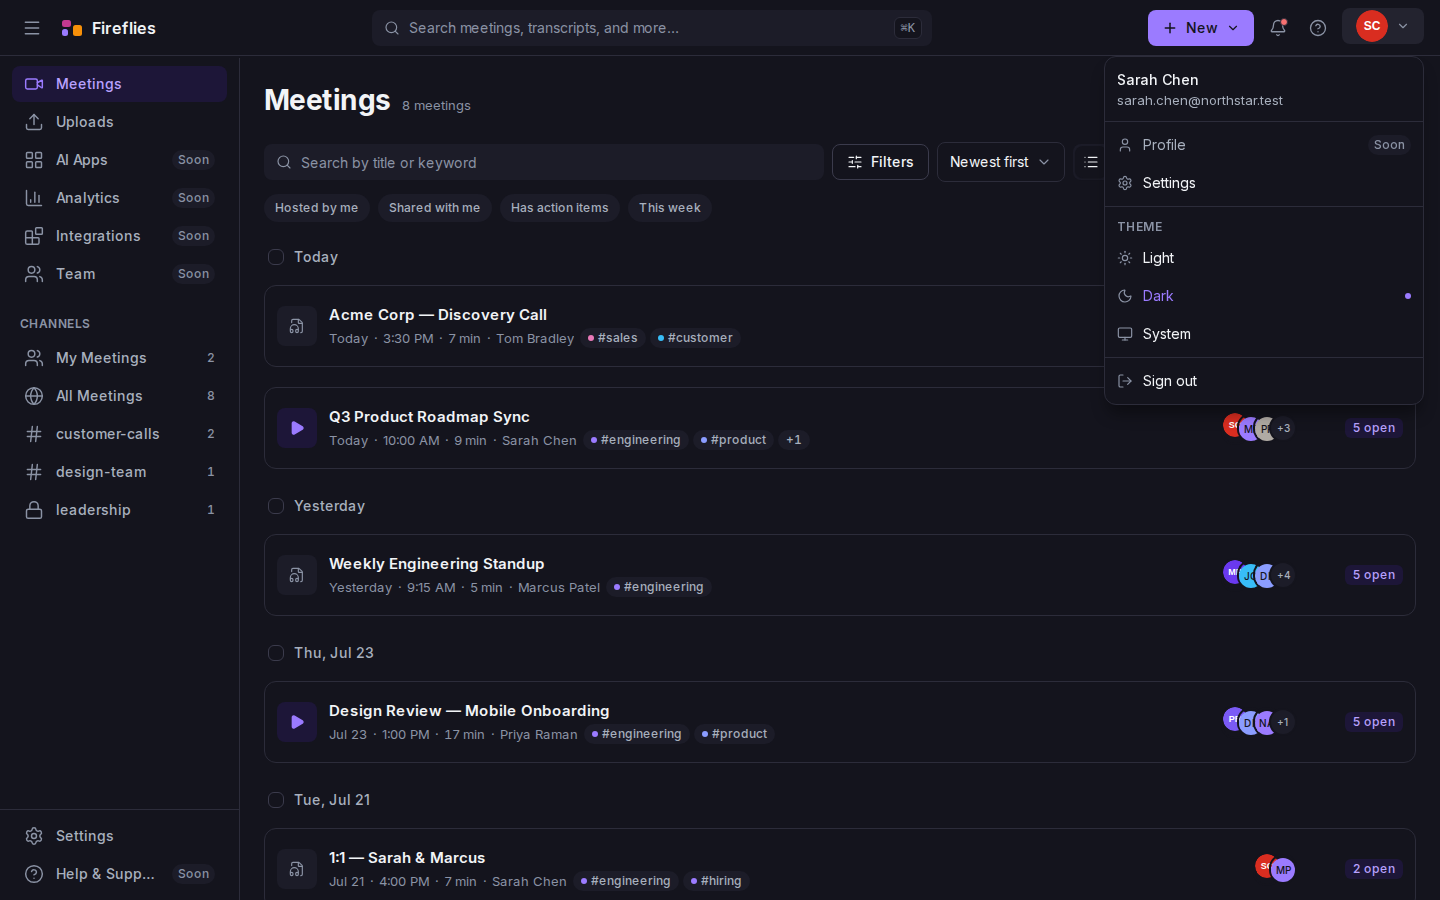
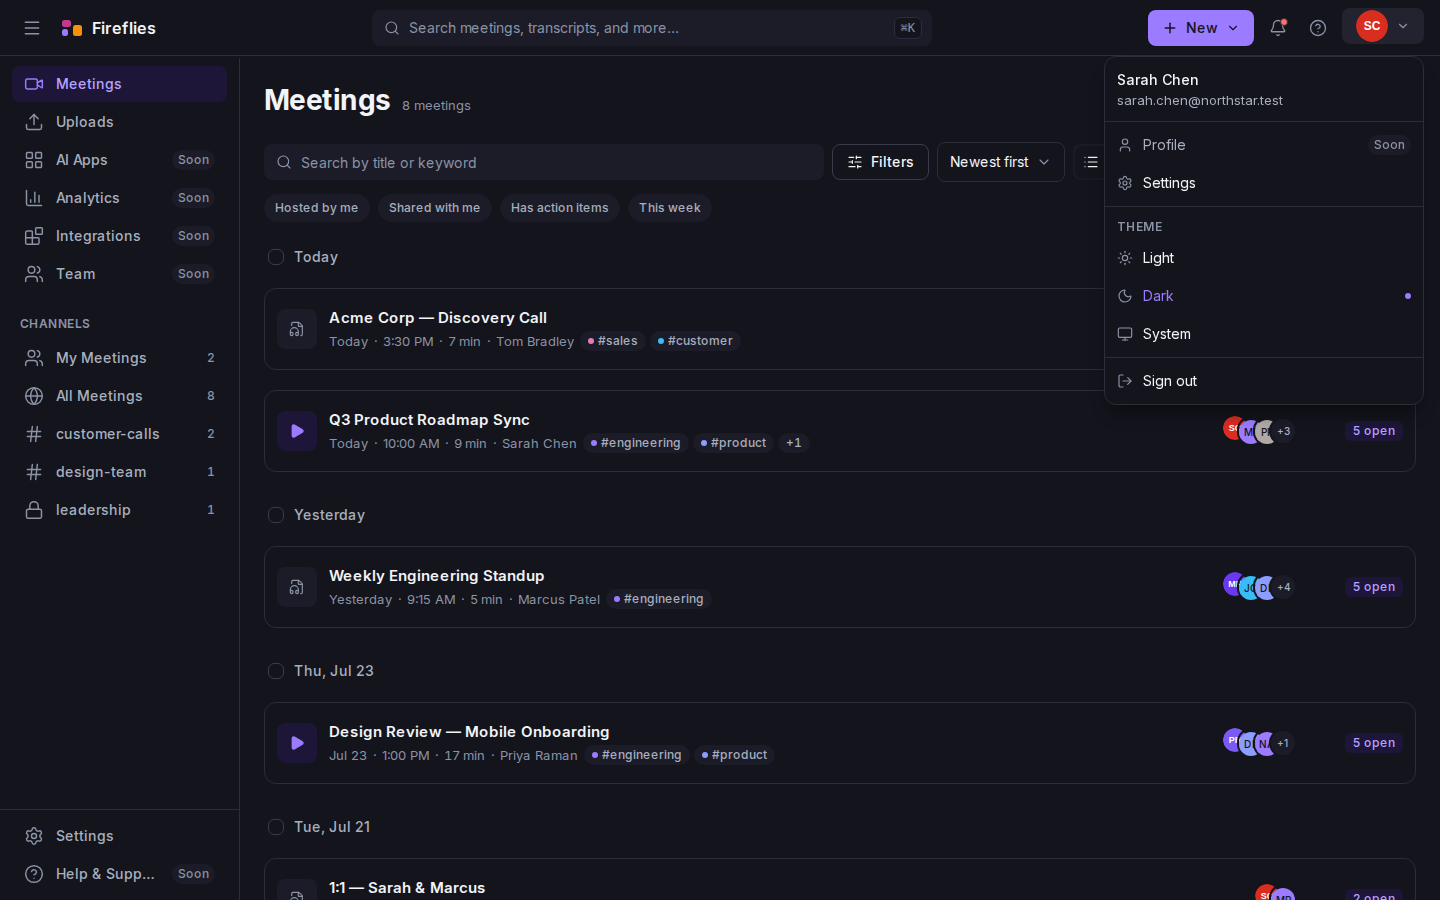
T-46.1: re-derive the gap tokens — ADR-150 silently broke the ratio ADR-149 set
ADR-149 tuned group-gap and heading-gap as a FRACTION of card height and stored
them as absolute pixels. ADR-150 raised the card 72 -> 82px and the gaps did not
move, so the ratio did: group / card fell from 0.930 to 0.815 against the
reference's 0.94. A 13% shortfall introduced by a change that had just improved
two other rows.

Nothing would have caught it. The tests assert toBe(82), which is correct. The
visual baselines were regenerated, so the wrong spacing became the expected
spacing. CI was green. It surfaced only because the published ratios in
ui-audit.md were re-derived from the committed screenshot instead of trusted.

Re-derived at 32/20 for an 81px card: group / card back to 0.926. intra is left
at 21px deliberately — the card change moved it CLOSER to the reference, 0.296
-> 0.259 against 0.274.

The token comment now names the trap: these are absolute pixels expressing a
ratio to the card, so any future change to `row` must re-derive them, and the
audit's ratio table is what catches it.

The general rule, now in the audit: changing a value invalidates every ratio
with that value in its denominator. Verifying the thing you changed is not
verifying what depended on it — especially when the dependants live in another
file.

Six baselines moved, all notebook. Suite green: 552 e2e, 440 pytest, 287 vitest.

diff --git a/frontend/tailwind.config.ts b/frontend/tailwind.config.ts
@@ -288,14 +288,23 @@ const config: Config = {
          * heading read as attached to the card beneath it rather than sitting
          * between groups.
          *
-         * Derived by holding the 67px total (that ratio is already correct at
-         * 0.944 against their 0.94) and the 14px glyph band (the type scale is
-         * already correct), then splitting the remaining 53px in their
-         * below:above ratio. A first attempt at 28/18 pushed the total to 70px
-         * and would have broken the ratio ADR-149 had just fixed.
+         * Derived by holding the group gap at 0.94 x CARD HEIGHT — their ratio —
+         * and the 14px glyph band, then splitting the rest in their below:above
+         * ratio of 0.52:0.31.
+         *
+         * These read 26/17 until ADR-150 raised the card from 72px to 82px, and
+         * that is the trap worth naming: these tokens are absolute pixels
+         * expressing a ratio TO THE CARD, so changing the card silently moved
+         * the ratio. Group fell from 0.930 to 0.815 against a reference of 0.94
+         * — a 13% shortfall introduced by a change that measured only the card
+         * and re-verified only the card. Re-derived at 32/20 for an 81px card.
+         *
+         * **Any future change to `row` must re-derive these.** The ratio table
+         * in `docs/ui-audit.md` is what catches it; re-measure against the
+         * committed screenshot, not against intent.
          */
-        'group-gap': '26px',
-        'heading-gap': '17px',
+        'group-gap': '32px',
+        'heading-gap': '20px',
         'btn-sm': '32px',
         'btn-md': '36px',
         'btn-lg': '40px',

diff --git a/docs/ui-audit.md b/docs/ui-audit.md
@@ -18,8 +18,8 @@ matches, or was changed to match:
 | Row title type ÷ topbar | 0.268 | 0.255 |
 | Card height ÷ topbar | 1.514 | 1.446 |
 | Card height ÷ title glyph | 5.658 | 5.786 |
-| Gap between cards in a group ÷ card | 0.274 | 0.296 |
-| Gap across a date heading ÷ card | 0.94 | 0.930 |
+| Gap between cards in a group ÷ card | 0.274 | 0.259 |
+| Gap across a date heading ÷ card | 0.94 | 0.926 |
 | Title inset ÷ card height | 1.01 | 0.94 |
 | Leading tile ÷ card height | 0.509 | 0.563 |
 | Settings block ÷ content column | 57.6% | 57.4% |
@@ -29,6 +29,24 @@ Ratios, not pixels, because the reference was captured at a different width and
 an unknown device pixel ratio — solving for that scale gives three different
 answers (1.268 via the topbar, 1.357 via the type, 1.493 via the card), which is
 itself the finding that their proportions differ rather than their zoom.
+
+**A regression this table caught, after it was published.** ADR-149 tuned the two
+gap tokens as a *fraction of card height* but stored them as absolute pixels.
+ADR-150 then raised the card from 72px to 82px and the gaps did not move, so the
+ratio silently did: `group ÷ card` fell from 0.930 to **0.815** against a
+reference of 0.94 — a 13% shortfall introduced by a change that had just
+improved two other rows.
+
+Nothing would have caught it. The tests assert `toBe(82)`, which is correct. The
+visual baselines were regenerated, so the wrong spacing became the expected
+spacing. CI was green. It surfaced only because these published numbers were
+re-derived from the committed screenshot rather than trusted. Re-derived tokens
+(32/20) restore it to 0.926.
+
+**The rule that follows:** changing a value invalidates every ratio with that
+value in its denominator. Verifying the thing you changed is not verifying what
+depended on it — and the `row` token has two dependants that live in a different
+file.
 
 **Three of those rows started 12–54% off** and were closed by ADR-148, -149 and
 -150. **Two differences remain and neither is geometric:** Settings cards carry
